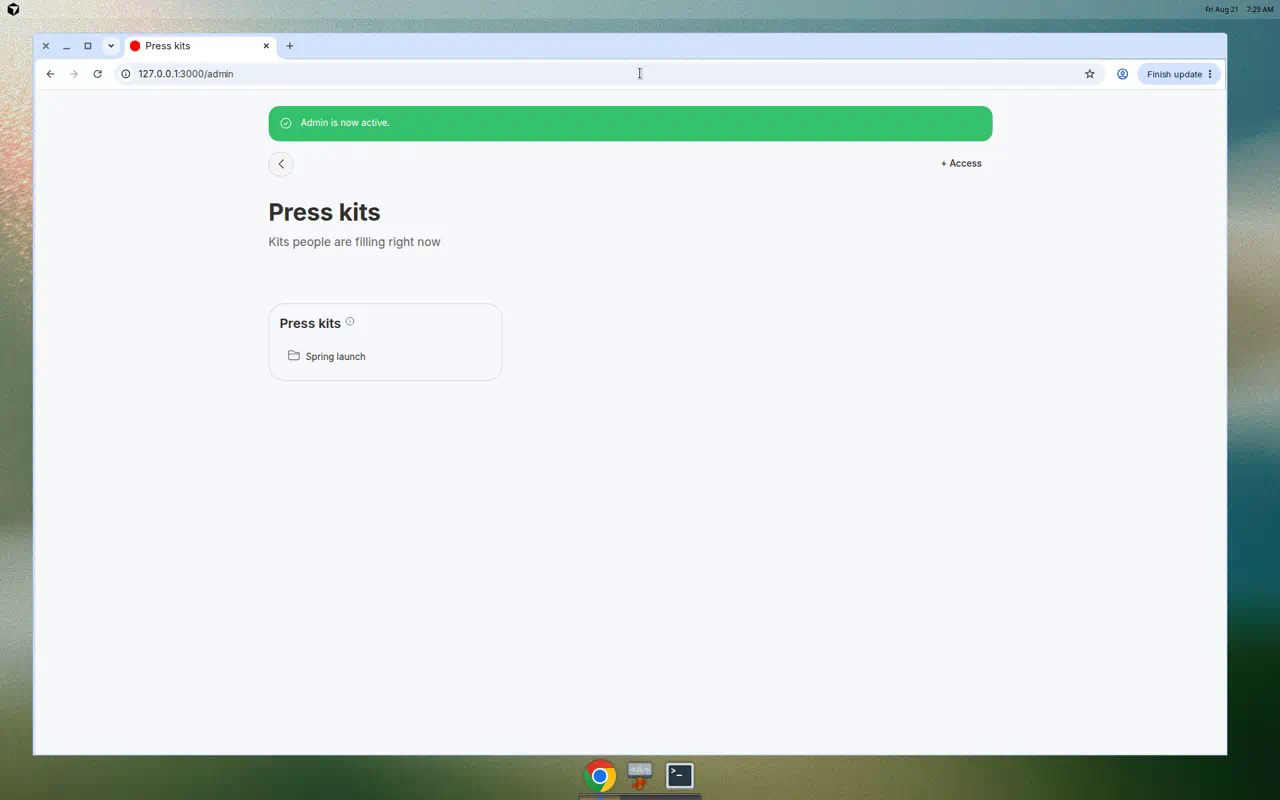
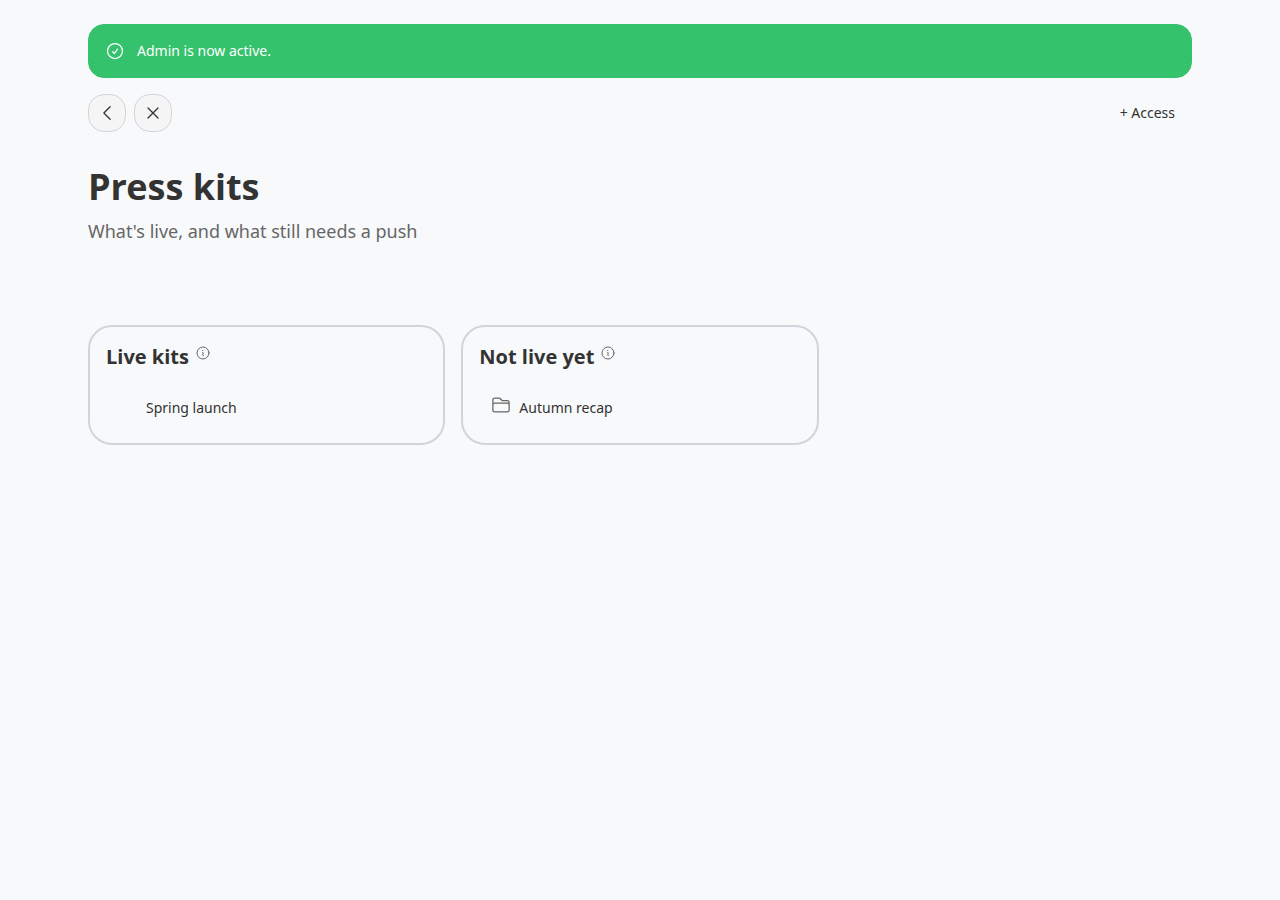
docs: add public, preview, and admin publish screenshots
Create no longer looks up Autumn recap by title, which collided with
the unpublished seeded kit and failed dummy CI.

diff --git a/test/dummy/test/integration/press_kit_ui_test.rb b/test/dummy/test/integration/press_kit_ui_test.rb
@@ -159,11 +159,13 @@ class PressKitUiTest < ActionDispatch::IntegrationTest
     sign_in @user
     switch_to_root(@root)
 
+    title = "Winter brief #{SecureRandom.hex(4)}"
     assert_difference -> { RecordingStudioPresskits::PressKit.count }, 1 do
-      post recording_studio_presskits.press_kits_path, params: { press_kit: { title: "Autumn recap" } }
+      post recording_studio_presskits.press_kits_path, params: { press_kit: { title: title } }
     end
 
-    kit = RecordingStudio::Recording.find_by!(recordable: RecordingStudioPresskits::PressKit.find_by!(title: "Autumn recap"))
+    press_kit = RecordingStudioPresskits::PressKit.where(title: title).order(:created_at).last
+    kit = RecordingStudioPresskits::KitQuery.for_root(@root).find { |recording| recording.recordable_id == press_kit.id }
     assert_redirected_to recording_studio_presskits.press_kit_path(kit)
     assert_equal @root, kit.parent_recording
   end

diff --git a/README.md b/README.md
@@ -242,7 +242,7 @@ Dummy kit pins:
 
 Authenticated dummy screens keep `RecordingStudio::UsesDefaultLayout`. Core 4.2 puts `data-theme` on `<body>`; dummy overrides `layouts/recording_studio/default_layout` so `<html data-theme="rounded">` wraps index, kit show, preview, and Admin. That is Flatpack's built-in rounded theme from `flat_pack/variables` — not a custom theme. The same override passes Flatpack 0.1.133 `anchor_href` (core still stores the close path in `page_nav_anchor_url`) so the close X shows next to back. After sign-in, `/` redirects to the press kit index. Dummy Tailwind scans FlatPack, Recording Studio, Admin, Publishable, and this gem so that layout is not an unstyled box.
 
-Public live kits use Publishable's layout. Cards, table, kit show, public show, owner preview, and Admin: `docs/dummy-screenshots/`.
+Public live kits use Publishable's layout. Cards, table, kit show, public show, owner preview, and Admin live in `docs/dummy-screenshots/`. After seed: `public-press-kit-show.png` (logged-out Spring launch), `owner-preview-unpublished.png` (owner preview of Autumn recap), and `admin-press-kits.png` (live vs not-live). Do not recapture dummy home.
 
 ```bash
 cd test/dummy
